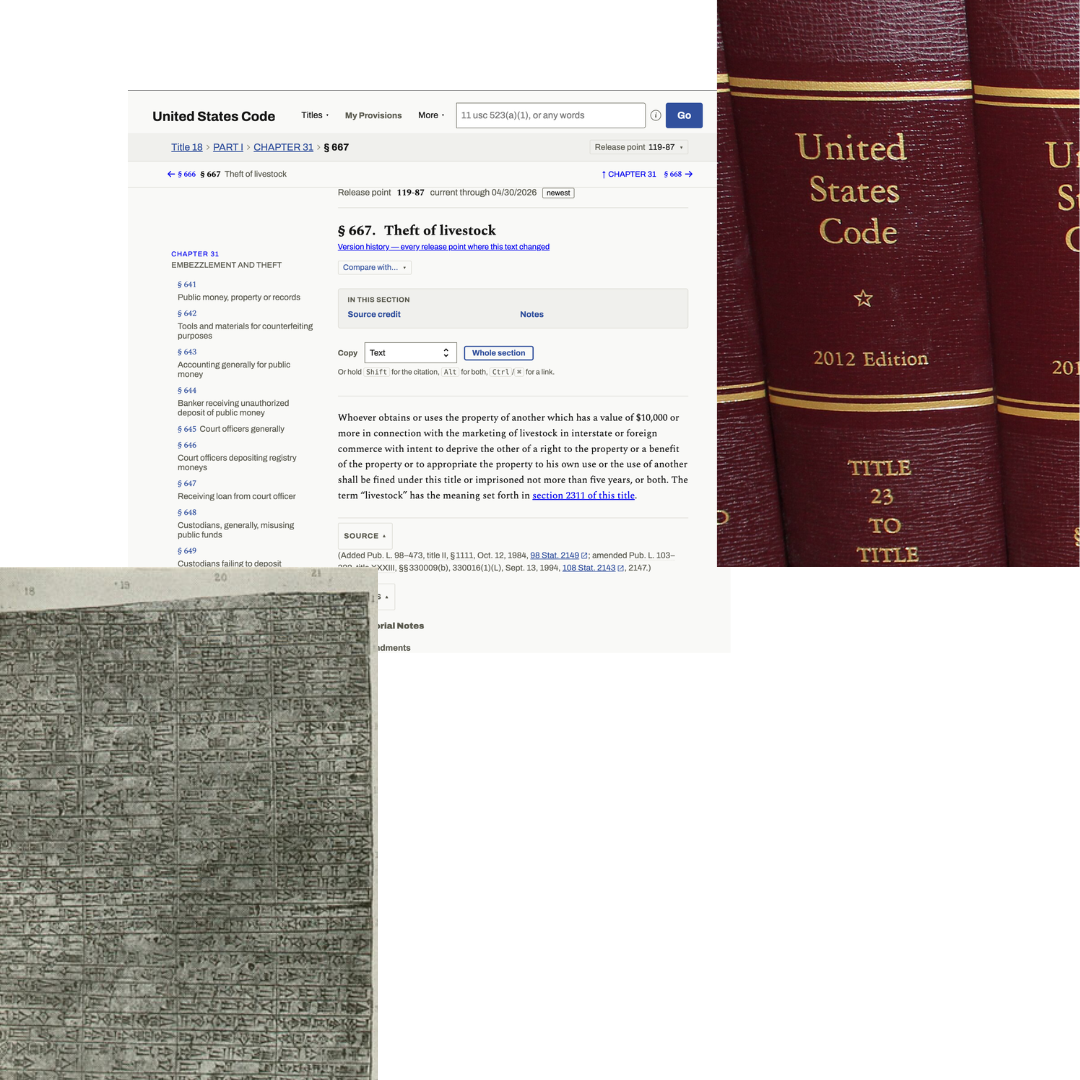
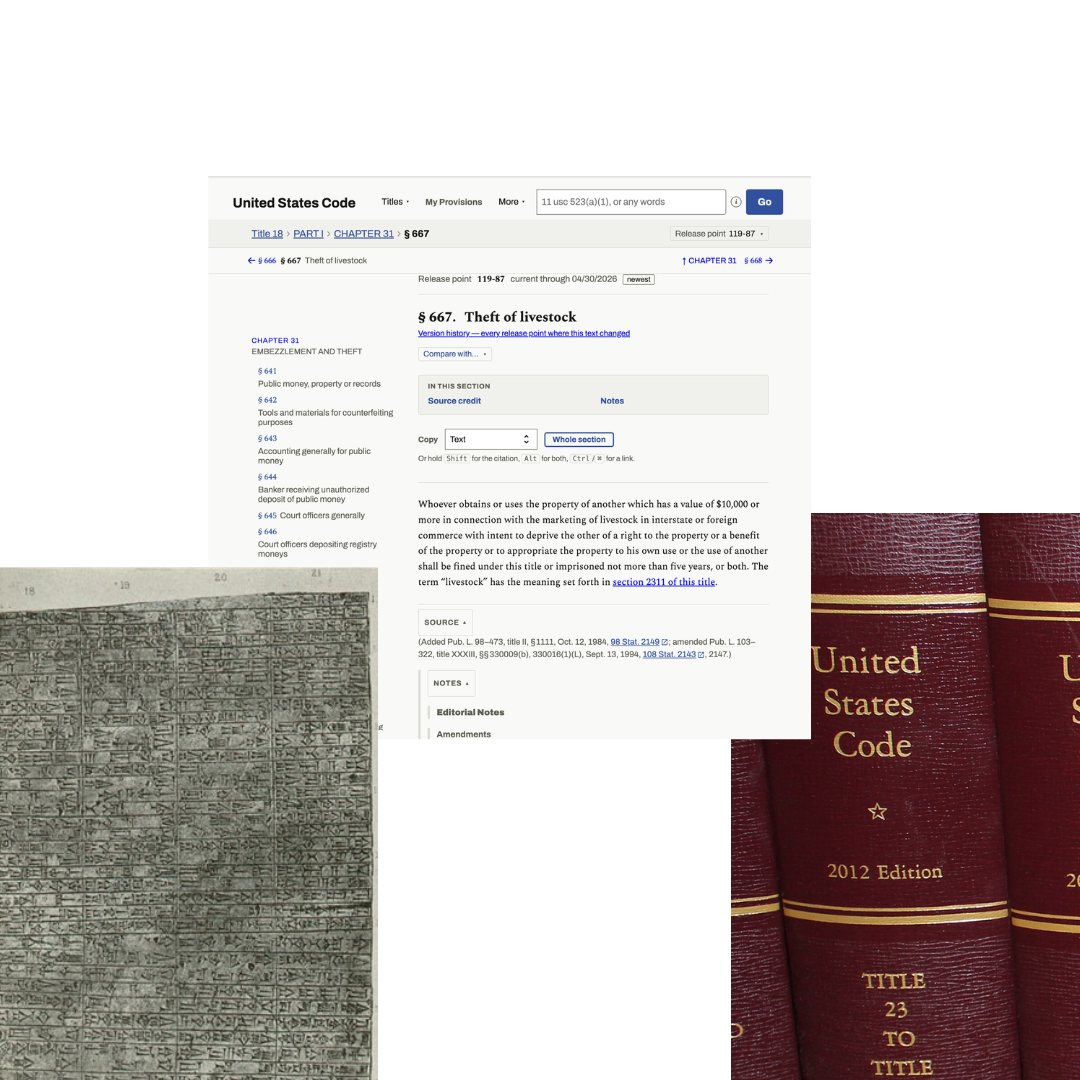
Update Editor to fix image issue; update assets

diff --git a/_admin/index.html b/_admin/index.html
@@ -12,6 +12,6 @@ sitemap: false
   </head>
   <body>
     <!-- Decap CMS reads config.yml from this same directory. -->
-    <script src="https://unpkg.com/decap-cms@3.15.1/dist/decap-cms.js"></script>
+    <script src="https://unpkg.com/decap-cms@3.8.0/dist/decap-cms.js"></script>
   </body>
 </html>

diff --git a/EDITING.md b/EDITING.md
@@ -23,6 +23,14 @@ The proxy listens on port 8081 and serves the repository it was started in. `POR
 decap-server` moves it; the matching editor setting is `local_backend: {url: ...}` in
 `_admin/config.yml`.
 
+`_admin/index.html` pins `decap-cms@3.8.0`. Releases from 3.8.4 up build malformed blob URLs for
+media, of the form `https://host/path/blob:https:/host/<uuid>`, which 404. Every media surface
+renders from that blob, so the media library grid, the image widget previews, and images in the
+body all come up empty. Tracked as
+[decap-cms#7639](https://github.com/decaporg/decap-cms/issues/7639).
+
+The pin is why the body is the `markdown` widget rather than `richtext`, which arrived in 3.12.0.
+
 Decap uses the proxy only when the editor page is served from localhost. Loaded from any other
 host it falls back to the `backend` block, which is the GitHub API and needs an OAuth client this
 repo does not configure. If the editor asks you to log in with GitHub, `decap-server` is not
@@ -39,7 +47,7 @@ when `jekyll serve` is run with `--drafts` and are skipped by the production bui
 Fields are title, subtitle, author, date, last-updated, tags, thumbnail-img, cover-img, share-img,
 and the body. Drafts have the same set minus last-updated and share-img.
 
-The body uses the `richtext` widget: a formatting toolbar, drag-and-drop images, and a raw
+The body uses the `markdown` widget: a formatting toolbar, drag-and-drop images, and a raw
 Markdown view behind the mode toggle. It writes plain Markdown either way. Images dropped into a
 post are written to `assets/img/uploads/` and referenced as `/assets/img/uploads/<name>`.
 
